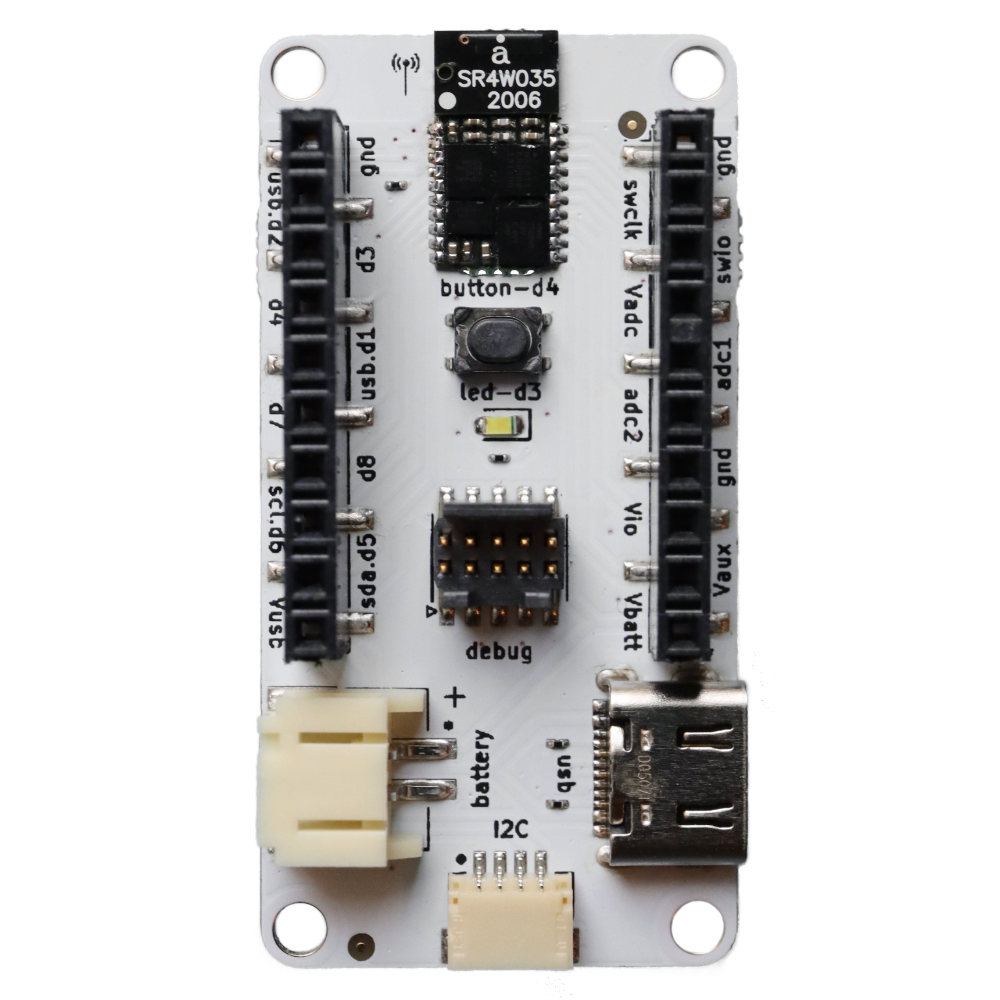
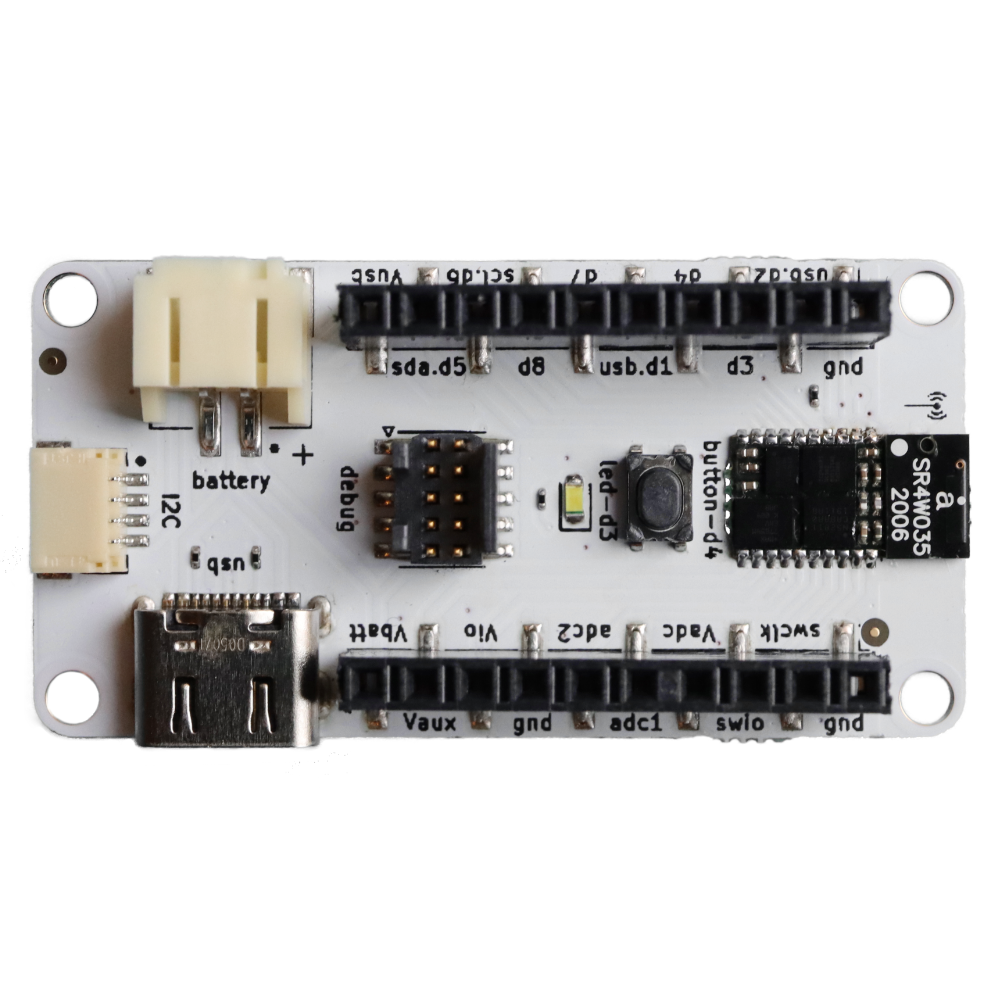
Added S1 close ups

diff --git a/module.html b/module.html
@@ -43,8 +43,8 @@
         grid-template-areas:
             "nav nav"
             "heading heading"
-            "ble-fpga ble-fpga"
-            "pmic-io pmic-io"
+            "ble-pmic ble-pmic"
+            "fpga-io fpga-io"
             "applications applications"
             "dev-kit dev-kit"
             "video video"
@@ -58,7 +58,7 @@
 
     .div1 {
         grid-area: heading;
-        background: url(images/circuit.png) no-repeat;
+        background: url(images/s1-hand.png) no-repeat;
         background-size: auto 60% !important;
         background-position: 90% 20%;
         background-color: var(--color-bg-red);
@@ -67,14 +67,20 @@
     }
 
     .div2 {
-        grid-area: ble-fpga;
-        padding-right: 55% !important;
+        grid-area: ble-pmic;
+        background: url(images/s1-close-right.png) no-repeat;
+        background-size: auto 60% !important;
+        background-position: left center;
+        padding-left: 40% !important;
         justify-content: space-around !important;
     }
 
     .div3 {
-        grid-area: pmic-io;
-        padding-left: 55% !important;
+        grid-area: fpga-io;
+        background: url(images/s1-close-left.png) no-repeat;
+        background-size: auto 60% !important;
+        background-position: right center;
+        padding-right: 40% !important;
         justify-content: space-around !important;
     }
 
@@ -167,7 +173,7 @@
             </div>
 
             <div>
-                <h2>FPGA</h2>
+                <h2>Power Management</h2>
                 <hr>
                 <p>Lorem ipsum dolor sit amet consectetur adipisicing elit. Magni repudiandae possimus nemo in iste tempora earum distinctio voluptatum, magnam vel, atque est? Doloribus impedit amet vitae laudantium placeat veritatis! Debitis.</p>
             </div>
@@ -175,7 +181,7 @@
 
         <div class="div3 light">
             <div>
-                <h2>Power Management</h2>
+                <h2>FPGA</h2>
                 <hr>
                 <p>Lorem ipsum dolor sit amet consectetur adipisicing elit. Magni repudiandae possimus nemo in iste tempora earum distinctio voluptatum, magnam vel, atque est? Doloribus impedit amet vitae laudantium placeat veritatis! Debitis.</p>
             </div>

diff --git a/index.html b/index.html
@@ -87,8 +87,8 @@
         padding-right: 50% !important;
         background: url(images/probe.png) no-repeat;
         background-size: auto 100% !important;
-        background-position: right center;
-        justify-content: flex-end !important;
+        background-position: right top;
+        justify-content: space-between !important;
     }
 
     @media (max-width: 960px) {
@@ -188,11 +188,15 @@
         </a>
 
         <div class="div5 light">
-            <h2>Specialized engineering services</h2>
-            <p>We can provide specialized assistance at any stage in your design. From schematic and layout, all the way
-                to RF and signal processing. Get in touch today, and let's transform your next product into something
-                groundbreaking.</p>
-            <p><a href="https://docs.siliconwitchery.com/" target="_blank">Go to Docs Center</a></p>
+            <div></div>
+            <div>
+                <h2>Specialized engineering services</h2>
+                <p>We can provide specialized assistance at any stage in your design. From schematic and layout, all the way
+                    to RF and signal processing. Get in touch today, and let's transform your next product into something
+                    groundbreaking.</p>
+                <p><a href="https://www.siliconwitchery.com/services" target="_blank">What we offer</a></p>
+            </div>
+
             <hr>
         </div>
 
